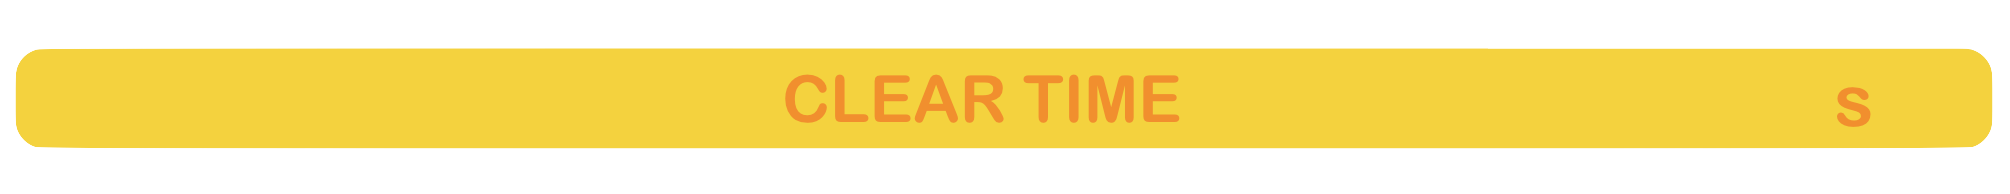
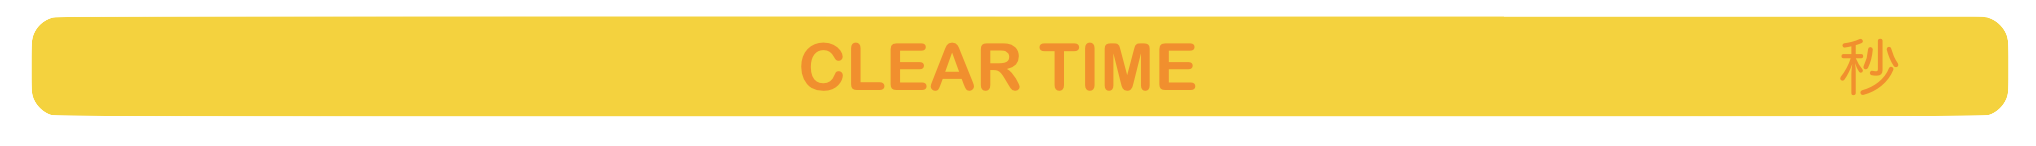
リザルト画面のsを秒に変更

Changed region(s): [[0.0, 0.1096, 0.9871, 0.8219], [0.9871, 0.3014, 1.0, 0.7123]]

diff --git a/Assets/To_Main_Scene.cs b/Assets/To_Main_Scene.cs
@@ -3,7 +3,8 @@ using System.Collections;
 
 public class To_Main_Scene : MonoBehaviour {
 
-    public void ToMain(){
+    public void ToMain()
+    {
         Application.LoadLevel("Main");
     }
 }
